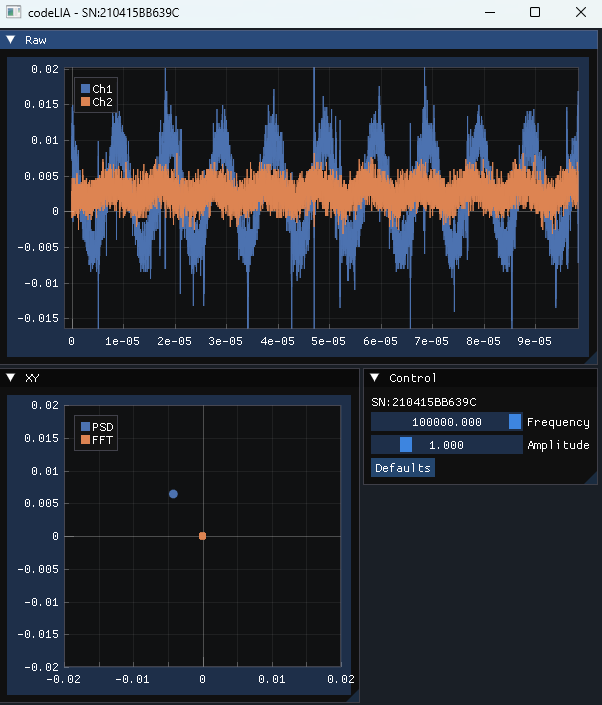
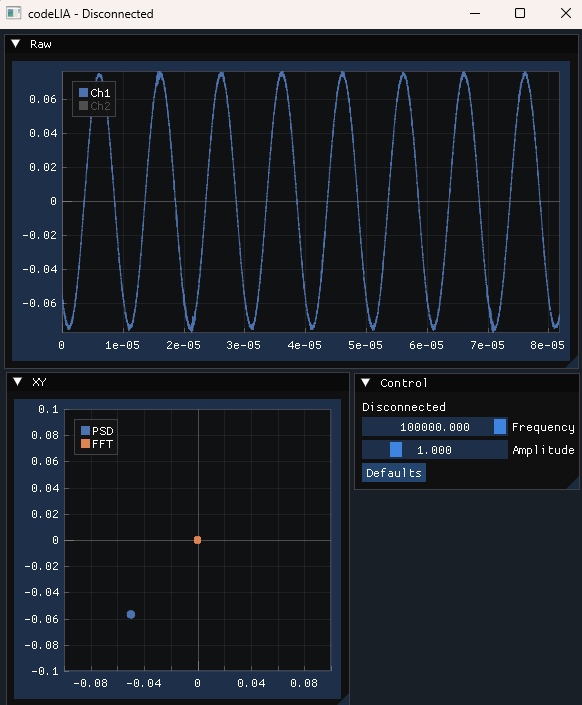
Daqクラスにcheck_errorを追加

diff --git a/Daq.h b/Daq.h
@@ -58,6 +58,8 @@ private:
     wf::Device::Data* device_data_ = nullptr;
     std::jthread thread_;
 
+    void check_error(wf::Device::Data *device_data, const char *caller = __builtin_FUNCTION(), const char *file = __FILE__);
+
     void initializeDevice();
     void closeDevice();
     void printDeviceInfo() const;
@@ -65,6 +67,37 @@ private:
     void run(std::stop_token st);
     void runWithoutDaq(std::stop_token st);
 };
+
+inline void Daq::check_error(wf::Device::Data *device_data, const char *caller, const char *file) {
+    /*
+        check for errors
+    */
+    char err_msg[512];  // variable for the error message
+    FDwfGetLastErrorMsg(err_msg);  // get the error message
+    device_data->error.message = err_msg;   // cast it to string
+    if (device_data->error.message != "") {
+        device_data->error.function = caller;
+        device_data->error.instrument = file;
+        // delete the extension
+        size_t index = device_data->error.instrument.find('.');
+        if (index != std::string::npos) {
+            device_data->error.instrument = device_data->error.instrument.substr(0, index);
+        }
+        // delete the path
+        device_data->error.instrument = std::string(device_data->error.instrument.rbegin(), device_data->error.instrument.rend());
+        index = device_data->error.instrument.find('/');
+        if (index != std::string::npos) {
+            device_data->error.instrument = device_data->error.instrument.substr(0, index);
+        }
+        index = device_data->error.instrument.find('\\');
+        if (index != std::string::npos) {
+            device_data->error.instrument = device_data->error.instrument.substr(0, index);
+        }
+        device_data->error.instrument = std::string(device_data->error.instrument.rbegin(), device_data->error.instrument.rend());
+        throw device_data->error;
+    }
+    return;
+}
 
 inline Daq::Daq(Cfg* cfg) : pCfg_(cfg) {
     initializeDevice();
@@ -128,15 +161,15 @@ inline void Daq::supplies(const double voltage) {
     // idxNode=0: Enable/Disable, idxNode=1: Voltage Level
     for(int idxChannel=0; idxChannel<2; idxChannel++) {
         if (FDwfAnalogIOChannelNodeSet(device_data_->handle, idxChannel, 1, abs_voltage) == 0) {
-            wf::device.check_error(device_data_);
+            check_error(device_data_);
         }
         if (FDwfAnalogIOChannelNodeSet(device_data_->handle, idxChannel, 0, flag) == 0) {
-            wf::device.check_error(device_data_);
+            check_error(device_data_);
         }   
     }
     // 電源のマスター有効/無効
     if (FDwfAnalogIOEnableSet(device_data_->handle, flag) == 0) {
-        wf::device.check_error(device_data_);
+        check_error(device_data_);
     }
 }
 
@@ -153,39 +186,39 @@ inline void Daq::wavegen(const double frequency, const double amplitude, int cha
     // enable channel
     channel--;
     if (FDwfAnalogOutNodeEnableSet(device_data_->handle, channel, AnalogOutNodeCarrier, true) == 0) {
-        wf::device.check_error(device_data_);
+        check_error(device_data_);
     }
     
     // set function type
     if (FDwfAnalogOutNodeFunctionSet(device_data_->handle, channel, AnalogOutNodeCarrier, function) == 0) {
-        wf::device.check_error(device_data_);
+        check_error(device_data_);
     }
     
     // load data if the function type is custom
     if (function == funcCustom) {
         if (FDwfAnalogOutNodeDataSet(device_data_->handle, channel, AnalogOutNodeCarrier, data.data(), data.size()) == 0) {
-            wf::device.check_error(device_data_);
+            check_error(device_data_);
         }
     }
     
     // set frequency
     if (FDwfAnalogOutNodeFrequencySet(device_data_->handle, channel, AnalogOutNodeCarrier, frequency) == 0) {
-        wf::device.check_error(device_data_);
+        check_error(device_data_);
     }
     
     // set amplitude or DC voltage
     if (FDwfAnalogOutNodeAmplitudeSet(device_data_->handle, channel, AnalogOutNodeCarrier, amplitude) == 0) {
-        wf::device.check_error(device_data_);
+        check_error(device_data_);
     }
     
     // set offset
     if (FDwfAnalogOutNodeOffsetSet(device_data_->handle, channel, AnalogOutNodeCarrier, offset) == 0) {
-        wf::device.check_error(device_data_);
+        check_error(device_data_);
     }
     
     // start
     if (FDwfAnalogOutConfigure(device_data_->handle, channel, true) == 0) {
-        wf::device.check_error(device_data_);
+        check_error(device_data_);
     }
 }
 
@@ -200,7 +233,7 @@ inline void Daq::scope(const double sample_rate, const int buffer_size, const do
     wf::scope.open(device_data_, sample_rate, buffer_size, offset, range);
     wf::scope.trigger(device_data_, true, trigsrcAnalogOut1, 1, 0);
     if (FDwfAnalogInConfigure(device_data_->handle, true, true) == 0) {
-        wf::device.check_error(device_data_);
+        check_error(device_data_);
     }
 }
 
